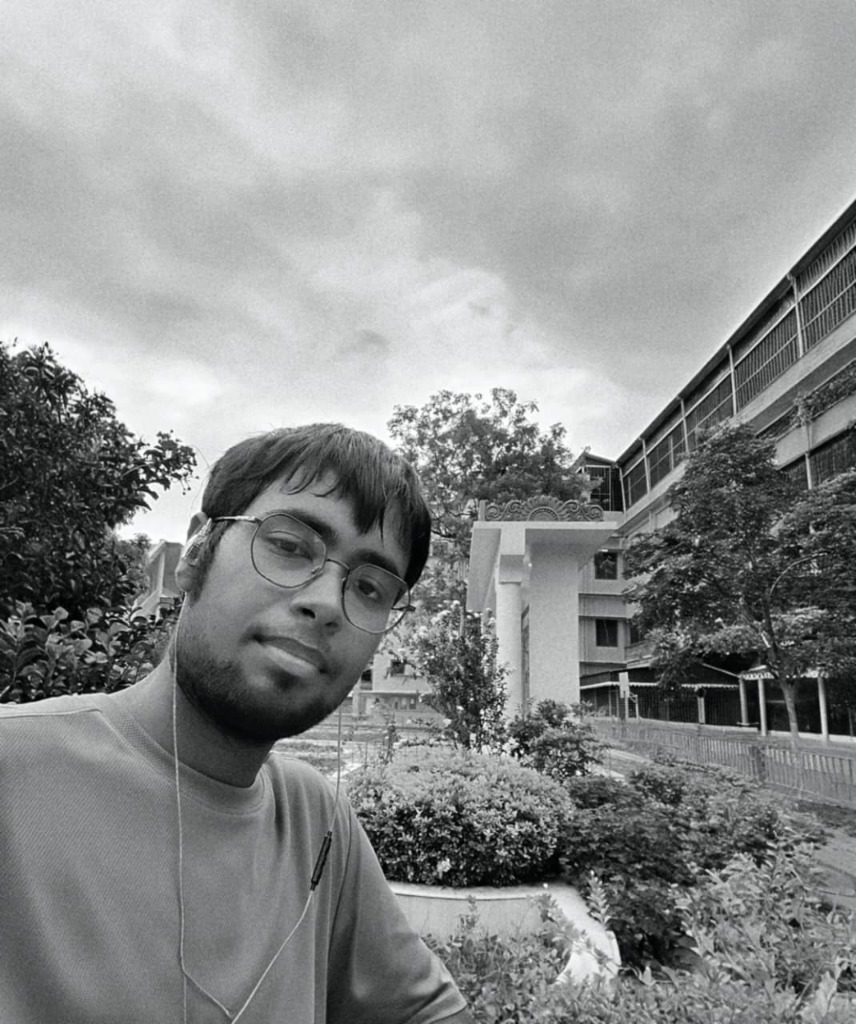
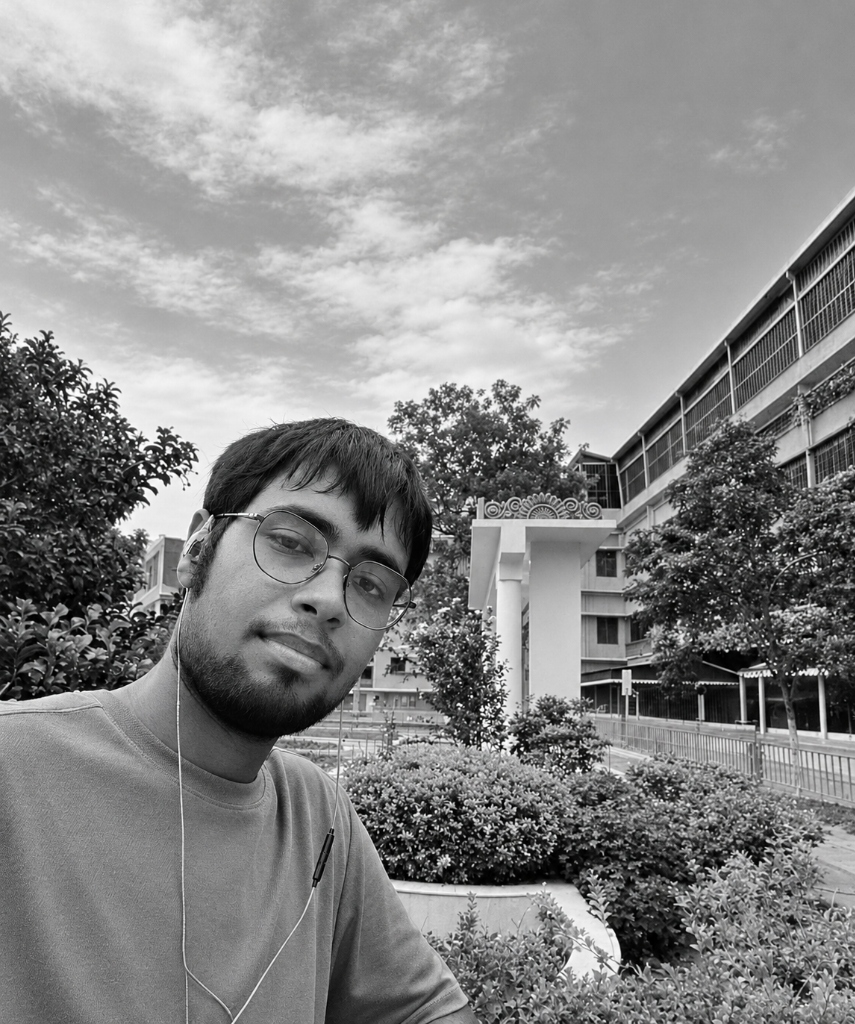
feat: replace portrait with updated photograph preserving dithering system

diff --git a/src/components/common/DitheredPortraitCanvas.tsx b/src/components/common/DitheredPortraitCanvas.tsx
@@ -1,4 +1,4 @@
-import React, { useEffect, useRef, useState } from 'react';
+import React, { useEffect, useRef, useState } from 'react';
 import * as THREE from 'three';
 import gsap from 'gsap';
 import { ScrollTrigger } from 'gsap/ScrollTrigger';
@@ -39,10 +39,13 @@ export const DitheredPortraitCanvas: React.FC<DitheredPortraitCanvasProps> = ({
 
     // Load authentic portrait texture
     const textureLoader = new THREE.TextureLoader();
-    const portraitTexture = textureLoader.load('/diptanu-portrait.jpg', () => {
+    const portraitTexture = textureLoader.load('/diptanu-portrait.jpg', (tex) => {
       portraitTexture.minFilter = THREE.LinearFilter;
       portraitTexture.magFilter = THREE.LinearFilter;
       portraitTexture.generateMipmaps = false;
+      if (tex.image && tex.image.width && tex.image.height) {
+        uniforms.uImageResolution.value.set(tex.image.width, tex.image.height);
+      }
       renderFrame();
     });
 
@@ -233,7 +236,7 @@ export const DitheredPortraitCanvas: React.FC<DitheredPortraitCanvasProps> = ({
       uTexture: { value: portraitTexture },
       uScrollProgress: { value: 0.0 },
       uResolution: { value: new THREE.Vector2(container.clientWidth, container.clientHeight) },
-      uImageResolution: { value: new THREE.Vector2(856, 1024) },
+      uImageResolution: { value: new THREE.Vector2(855, 1024) },
       uMouse: { value: new THREE.Vector2(0, 0) },
       uTime: { value: 0 },
       uTapReveal: { value: 0.0 },
